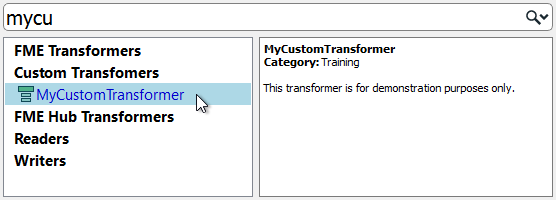
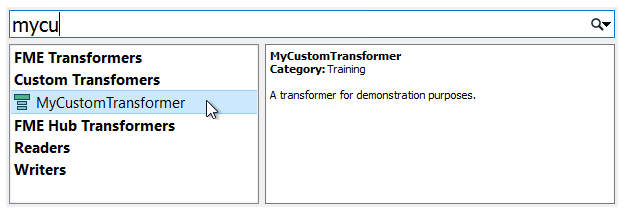
2019 Section 5.01 updates

Changed region(s): [[0.0, 0.0, 1.0, 0.99]]

diff --git a/DesktopAdvanced5CustomTransformers/5.01.UsingCustomTransformers.md b/DesktopAdvanced5CustomTransformers/5.01.UsingCustomTransformers.md
@@ -1,22 +1,18 @@
 # Using Custom Transformers #
 
-Once a custom transformer has been created, it is connected to the workspace and - apart from a different color - looks just like a normal FME transformer would.
+Once a custom transformer is created, it is placed into the main canvas and - apart from a different color - looks just like a normal FME transformer would.
 
 However, the resemblance to a normal transformer is not just in appearance. In the same way that multiple instances of a transformer can be used in a workspace, a custom transformer can be used any number of times too. This makes Custom Transformers not just a way to tidy a workspace, but also as a way of re-using content.
 
-To place extra copies of a custom transformer - again like a regular transformer - you use the Transformer Gallery (look under a section labelled “Embedded Transformers):
+To place extra copies of a custom transformer you use - again like a normal transformer - the Transformer Gallery (look under a section labelled “Embedded Transformers):
 
-![](./Images/Img5.009.CustomTransformersInGallery.png) <!-- ** Update Screenshot-->
-
----
+![](./Images/Img5.009.CustomTransformersInGallery.png) 
 
 ...or you can use Quick Add:
 
 ![](./Images/Img5.010.CustomTransformersQuickAdd.png)
 
-As with FME transformers, each newly placed instance of a custom transformer will be renamed (or numbered) as necessary, in order to avoid a clash of names.
 
----
 <table style="border-spacing: 0px">
 <tr>
 <td style="vertical-align:middle;background-color:darkorange;border: 2px solid darkorange">
@@ -38,9 +34,9 @@ The transformer name, category, and description all appear in the Quick Add tool
 
 ## Editing a Re-used Custom Transformer ##
 
-Multiple instances of a custom transformer all use the same core definition; i.e. there may be multiple copies on the Main tab, but only a single tab for the custom transformer definition. 
+Multiple instances of a custom transformer all use the same core definition; i.e. there may be multiple instances on the Main canvas, but only a single definition exists for all of them 
 
-A key benefit of this approach is that every instance can be updated or edited simply by editing the custom transformer definition.
+A key benefit of this approach is that *every* instance is updated or edited when the custom transformer definition is changed.
 
 For example, if a parameter is changed for the Aggregator inside this custom transformer:
 
@@ -48,4 +44,4 @@ For example, if a parameter is changed for the Aggregator inside this custom tra
 
 ...then the parameter automatically changes for ALL instances of the transformer that have been placed.
 
-This makes the editing of a sequence of transformers much easier because the edit only needs to be made once, no matter how many times that sequence has been used.
+Editing is simpler because changes only need to be made once, no matter how many times that custom transformer has been used.
